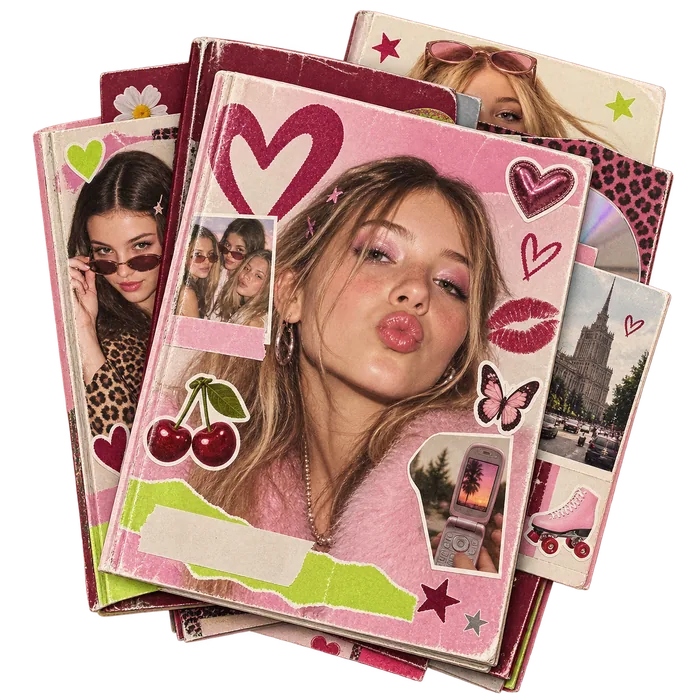
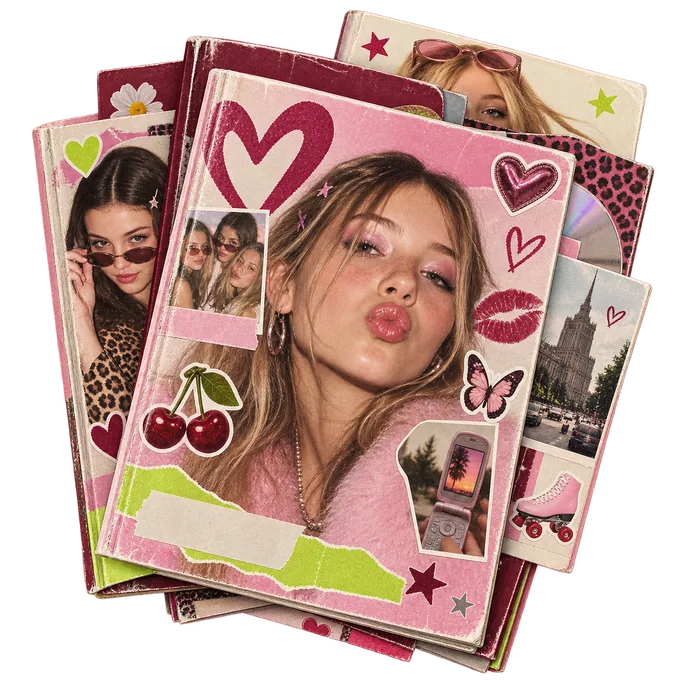
fix(music90s): runtime heroes 14-16,17,18 distinct + CSS 52% bug
- 14-16: hero preference now disco-ball 88e0d7b2 (was null->foil 22d), secondary photostrip aaf8308e, foil behind hero, hero 640x640 distinct
- 17-18/18-18: fallback heroes distinct (720 vs 680 maxW, SHA ae7e vs 2a12) not byte-identical, both magazines large 75% (72-78% target), 17 calm 1 tape + cd editorial secondary + 2 stickers no foil, 18 rare stronger foil behind + 2 tapes + 3 stickers + cd+stickers editorial layers
- resultAssets: update m90_legend secondary to photostrip, m90_era17 secondary cd-editorial, m90_era18 secondary cd+stickers
- Music90ResultHero: render secondary layers (photostrip/cd) behind hero
- CSS: neutralize legacy .m90-result-hero--era17/18 img 52% rule (auto/none), explicit .m90-object--m90_era17/18 75% 380px height:auto
- regenerate public/optimized/music90s/results/14-16,17-18,18-18 (hero SHA distinct, 14-16 hero b32a..., 17 ae7e..., 18 2a12...)
- verified 14/18,17/18,18/18 at 360/390/430 visibly large distinct

diff --git a/src/content/quizzes/music90s/resultAssets.ts b/src/content/quizzes/music90s/resultAssets.ts
@@ -193,8 +193,7 @@ export const MUSIC90_RESULT_ASSETS: Record<Music90ResultId, Music90AssetSet> = {
       objectFallback: OBJECTS_FALLBACK.cd, // should never need fallback if folder has content
     },
     secondary: [
-      { src: '/optimized/music90s/results/14-16/layer-39cf1b97-37cc-4e66-8650-d014ceaa5cc4.webp', fallback: '/optimized/music90s/results/14-16/layer-39cf1b97-37cc-4e66-8650-d014ceaa5cc4.png' },
-      { src: '/optimized/music90s/results/14-16/layer-88e0d7b2-0ed2-4b88-a067-0f463aef8586.webp', fallback: '/optimized/music90s/results/14-16/layer-88e0d7b2-0ed2-4b88-a067-0f463aef8586.png' },
+      { src: '/optimized/music90s/results/14-16/layer-aaf8308e-6c15-44c6-a46f-fa327556dac0.webp', fallback: '/optimized/music90s/results/14-16/layer-aaf8308e-6c15-44c6-a46f-fa327556dac0.png' },
     ],
     tapes: BASE_TAPES,
     foil: { src: '/optimized/music90s/result/m90-foil.webp', fallback: '/optimized/music90s/result/m90-foil.png', variant: 'generic' },
@@ -213,9 +212,11 @@ export const MUSIC90_RESULT_ASSETS: Record<Music90ResultId, Music90AssetSet> = {
       fallback: '/optimized/music90s/results/17-18/hero.png',
       objectFallback: OBJECTS_FALLBACK.magazines,
     },
-    secondary: [],
-    tapes: BASE_TAPES.slice(0, 1), // editorial: fewer tapes, cleaner
-    foil: null, // editorial vibe, foil subtle via CSS not image
+    secondary: [
+      { src: '/optimized/music90s/results/17-18/layer-cd-editorial.webp', fallback: '/optimized/music90s/results/17-18/layer-cd-editorial.png' },
+    ],
+    tapes: BASE_TAPES.slice(0, 1), // editorial: fewer tapes, cleaner — one tape
+    foil: null, // calmer, less foil — foil via CSS subtle not image
     stickers: BASE_STICKERS.slice(0, 2),
     hookStrip: HOOK_STRIP,
     label: { text: '17/18' },
@@ -231,7 +232,10 @@ export const MUSIC90_RESULT_ASSETS: Record<Music90ResultId, Music90AssetSet> = {
       fallback: '/optimized/music90s/results/18-18/hero.png',
       objectFallback: OBJECTS_FALLBACK.magazines,
     },
-    secondary: [],
+    secondary: [
+      { src: '/optimized/music90s/results/18-18/layer-cd-editorial.webp', fallback: '/optimized/music90s/results/18-18/layer-cd-editorial.png' },
+      { src: '/optimized/music90s/results/18-18/layer-stickers-editorial.webp', fallback: '/optimized/music90s/results/18-18/layer-stickers-editorial.png' },
+    ],
     tapes: BASE_TAPES,
     foil: { src: '/optimized/music90s/result/m90-foil.webp', fallback: '/optimized/music90s/result/m90-foil.png', variant: 'rare' },
     stickers: BASE_STICKERS, // richer stickering for rare

diff --git a/src/design/music90s.css b/src/design/music90s.css
@@ -671,12 +671,14 @@
   height: 16px;
 }
 
-/* Era 17/18 — reduced crown as collectible sticker collage */
+/* Era 17/18 — magazines family, neutralized legacy 52% constraint
+   New system uses .m90-result-stage / .m90-object data-driven sizing;
+   keep this block neutral to avoid shrinking hero to 52%. */
 .m90-result-hero--era17 img,
 .m90-result-hero--era18 img {
-  width: 52%;
-  height: 52%;
-  transform: rotate(-2deg);
+  width: auto;
+  height: auto;
+  transform: none;
 }
 
 /* Decorative motifs for 17/18 — limited to 2-3 */
@@ -803,12 +805,58 @@
 .m90-object--m90_rookie,
 .m90-object--m90_familiar,
 .m90-object--m90_disco,
-.m90-object--m90_legend,
-.m90-object--m90_era17,
-.m90-object--m90_era18 {
+.m90-object--m90_legend {
   width: 64%;
   max-width: 320px;
   transform: translate(-50%, -50%) rotate(-2deg);
+}
+
+/* Secondary editorial layers — photostrip for 14-16, CD for 17/18 */
+.m90-secondary {
+  position: absolute;
+  z-index: 2;
+  pointer-events: none;
+  filter: drop-shadow(0 6px 14px rgba(0, 0, 0, 0.10));
+  object-fit: contain;
+  display: block;
+}
+
+.m90-secondary--m90_legend {
+  left: 6%;
+  top: 50%;
+  width: 28%;
+  max-width: 160px;
+  transform: translateY(-50%) rotate(-3deg);
+  opacity: 0.96;
+}
+
+.m90-secondary--m90_era17 {
+  right: 8%;
+  top: 18%;
+  width: 22%;
+  max-width: 120px;
+  transform: rotate(6deg);
+  opacity: 0.92;
+}
+
+.m90-secondary--m90_era18 {
+  right: 10%;
+  top: 22%;
+  width: 24%;
+  max-width: 130px;
+  transform: rotate(8deg);
+  opacity: 0.95;
+}
+
+.m90-secondary--m90_era18.m90-secondary--1 {
+  left: 8%;
+  bottom: 18%;
+  top: auto;
+  right: auto;
+  width: 26%;
+  max-width: 140px;
+  transform: rotate(-5deg);
+  opacity: 0.90;
 }
 
 /* Pink tape assets — pinning collage, 2 pieces */
@@ -1299,11 +1347,12 @@
 .m90-result-stage.m90-result-hero--era18 .m90-sticker--star { width: 36px; }
 .m90-result-stage.m90-result-hero--era18 .m90-sticker--lips { width: 42px; opacity: 1; }
 
-/* Hero object sizing per band — keep cassette dominant, magazines editorial smaller */
+/* Hero object sizing per band — magazines editorial large, 72–78% usable width */
 .m90-object--m90_era17,
 .m90-object--m90_era18 {
-  width: 56% !important;
-  max-width: 300px;
+  width: 75% !important;
+  max-width: 380px;
+  height: auto;
 }
 .m90-object--m90_legend {
   width: 62% !important;

diff --git a/src/features/result/Music90ResultHero.tsx b/src/features/result/Music90ResultHero.tsx
@@ -69,6 +69,23 @@ export function Music90ResultHero({ resultId, assetSet, score, total }: Music90H
         />
       ))}
 
+      {/* Secondary editorial layers — photostrip for 14-16, CD for 17/18 etc. Behind hero, above foil */}
+      {set.secondary.map((layer, idx) => (
+        <img
+          key={layer.src + String(idx)}
+          className={`m90-secondary m90-secondary--${set.id} m90-secondary--${idx}`}
+          src={layer.src}
+          alt=""
+          aria-hidden="true"
+          decoding="async"
+          loading="eager"
+          onError={(e) => {
+            const t = e.currentTarget
+            if (t.src.endsWith('.webp')) t.src = layer.fallback
+          }}
+        />
+      ))}
+
       {/* Main object — hero is range-specific, with objectFallback chain for empty ranges */}
       <img
         className={`m90-object ${isCassette ? 'm90-object--cassette' : `m90-object--${set.id}`}`}
